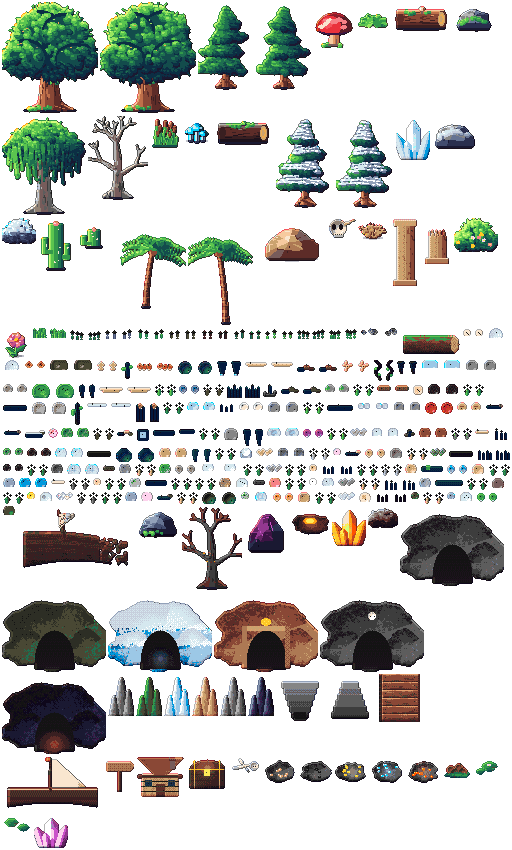
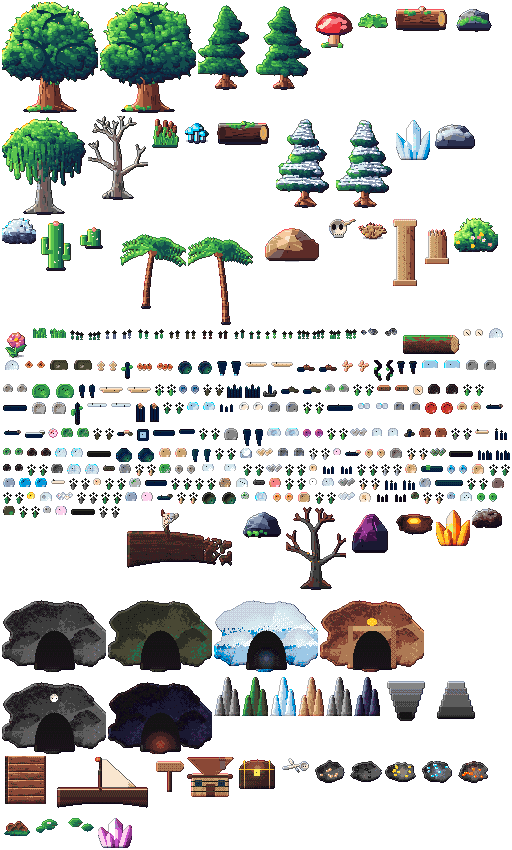
Ciclos 381-390/1000: 5 props (atlas 353) + testes oásis/portos + evento erupção em Brasa + dica

Changed region(s): [[0.0, 0.5812, 1.0, 1.0]]

diff --git a/src/game/RegionWorld.js b/src/game/RegionWorld.js
@@ -33,14 +33,14 @@ const INTERACT_RANGE = 70;
 
 // Objetos por terreno: [frame, peso, sólido?]. Sólido = base que bloqueia (largura, altura).
 const PROPS = {
-  [T.FOREST]: { density: 0.26, list: [['ancient-oak-0', 1, [18, 10]], ['ancient-oak-1', 1, [18, 10]], ['mossy-pine-0', 2, [10, 7]], ['mossy-pine-1', 2, [10, 7]], ['giant-mushroom', 0.6, [10, 6]], ['fern', 3], ['fallen-log', 0.6, [40, 10]], ['mossy-rock', 1, [24, 10]], ['grass-tuft-0', 4], ['grass-tuft-1', 4], ['flower-tuft-0', 1.2], ['flower-tuft-1', 1.2], ['forest-flower-0', 0.8], ['forest-flower-1', 0.8], ['pebbles-0', 0.7], ['pebbles-1', 0.7], ['mushroom-cluster-0', 0.5], ['mushroom-cluster-1', 0.5], ['berry-bush-0', 0.6], ['berry-bush-1', 0.6], ['yellow-flower-0', 0.7], ['yellow-flower-1', 0.7], ['bark-scrap-0', 0.5], ['bark-scrap-1', 0.5], ['pink-flower-0', 0.6], ['pink-flower-1', 0.6], ['rotten-log', 0.4, [30, 9]], ['red-cap-0', 0.4], ['red-cap-1', 0.4], ['tan-shroom-0', 0.4], ['tan-shroom-1', 0.4], ['orange-shroom-0', 0.4], ['orange-shroom-1', 0.4], ['mossy-log', 0.35, [28, 8]], ['light-purple-flower-0', 0.5], ['light-purple-flower-1', 0.5], ['peach-forest-flower-0', 0.5], ['peach-forest-flower-1', 0.5], ['blue-forest-flower-0', 0.5], ['blue-forest-flower-1', 0.5], ['dark-bark', 0.5], ['blush-forest-flower-0', 0.5], ['blush-forest-flower-1', 0.5], ['forest-gravel', 0.6], ['forest-branch', 0.5], ['yellow-forest-bush-0', 0.5], ['yellow-forest-bush-1', 0.5], ['forest-boulder', 0.3, [14, 8]]] },
+  [T.FOREST]: { density: 0.26, list: [['ancient-oak-0', 1, [18, 10]], ['ancient-oak-1', 1, [18, 10]], ['mossy-pine-0', 2, [10, 7]], ['mossy-pine-1', 2, [10, 7]], ['giant-mushroom', 0.6, [10, 6]], ['fern', 3], ['fallen-log', 0.6, [40, 10]], ['mossy-rock', 1, [24, 10]], ['grass-tuft-0', 4], ['grass-tuft-1', 4], ['flower-tuft-0', 1.2], ['flower-tuft-1', 1.2], ['forest-flower-0', 0.8], ['forest-flower-1', 0.8], ['pebbles-0', 0.7], ['pebbles-1', 0.7], ['mushroom-cluster-0', 0.5], ['mushroom-cluster-1', 0.5], ['berry-bush-0', 0.6], ['berry-bush-1', 0.6], ['yellow-flower-0', 0.7], ['yellow-flower-1', 0.7], ['bark-scrap-0', 0.5], ['bark-scrap-1', 0.5], ['pink-flower-0', 0.6], ['pink-flower-1', 0.6], ['rotten-log', 0.4, [30, 9]], ['red-cap-0', 0.4], ['red-cap-1', 0.4], ['tan-shroom-0', 0.4], ['tan-shroom-1', 0.4], ['orange-shroom-0', 0.4], ['orange-shroom-1', 0.4], ['mossy-log', 0.35, [28, 8]], ['light-purple-flower-0', 0.5], ['light-purple-flower-1', 0.5], ['peach-forest-flower-0', 0.5], ['peach-forest-flower-1', 0.5], ['blue-forest-flower-0', 0.5], ['blue-forest-flower-1', 0.5], ['teal-forest-flower-0', 0.5], ['teal-forest-flower-1', 0.5], ['dark-bark', 0.5], ['blush-forest-flower-0', 0.5], ['blush-forest-flower-1', 0.5], ['forest-gravel', 0.6], ['forest-branch', 0.5], ['yellow-forest-bush-0', 0.5], ['yellow-forest-bush-1', 0.5], ['forest-boulder', 0.3, [14, 8]]] },
   [T.SWAMP]: { density: 0.17, list: [['willow', 1.4, [14, 9]], ['dead-tree', 1.4, [10, 7]], ['reeds', 3], ['swamp-shroom', 1.2], ['bog-log', 0.5, [40, 10]], ['mossy-rock', 0.5, [24, 10]], ['grass-tuft-0', 3], ['flower-tuft-1', 0.6], ['swamp-flower-0', 0.6], ['swamp-flower-1', 0.6], ['mud-puddle-0', 0.5], ['mud-puddle-1', 0.5], ['twisted-root-0', 0.5], ['twisted-root-1', 0.5], ['river-stone-0', 0.5, [10, 6]], ['river-stone-1', 0.5, [10, 6]], ['blue-mushroom-0', 0.5], ['blue-mushroom-1', 0.5], ['moss-pebble-0', 0.6], ['moss-pebble-1', 0.6], ['reed-0', 0.7], ['reed-1', 0.7], ['green-stone-0', 0.5, [10, 6]], ['green-stone-1', 0.5, [10, 6]], ['lilac-flower-0', 0.5], ['lilac-flower-1', 0.5], ['swamp-root', 0.5], ['swamp-pebble-0', 0.5], ['swamp-pebble-1', 0.5], ['yellow-swamp-flower-0', 0.5], ['yellow-swamp-flower-1', 0.5], ['swamp-gravel', 0.6], ['pink-swamp-flower-0', 0.5], ['pink-swamp-flower-1', 0.5], ['dark-river-stone', 0.5, [10, 6]], ['gray-shroom-0', 0.4], ['gray-shroom-1', 0.4], ['green-shroom-0', 0.4], ['green-shroom-1', 0.4], ['white-swamp-flower-0', 0.5], ['white-swamp-flower-1', 0.5], ['light-blue-shroom-0', 0.4], ['light-blue-shroom-1', 0.4], ['light-river-stone', 0.5, [10, 6]], ['blue-swamp-flower-0', 0.5], ['blue-swamp-flower-1', 0.5], ['orange-swamp-flower-0', 0.5], ['orange-swamp-flower-1', 0.5], ['teal-swamp-flower-0', 0.5], ['teal-swamp-flower-1', 0.5], ['gold-swamp-flower-0', 0.5], ['gold-swamp-flower-1', 0.5]] },
-  [T.SNOW]: { density: 0.15, list: [['snow-pine-0', 2, [10, 7]], ['snow-pine-1', 2, [10, 7]], ['ice-crystal', 1, [16, 8]], ['snow-rock', 1.4, [28, 10]], ['frozen-bush', 1.4], ['grass-tuft-1', 1.5], ['snow-flower-0', 0.8], ['snow-flower-1', 0.8], ['pebbles-0', 0.5], ['pebbles-1', 0.5], ['frozen-log', 0.5, [40, 10]], ['snow-mound-0', 0.6], ['snow-mound-1', 0.6], ['ice-shard-0', 0.6, [6, 10]], ['ice-shard-1', 0.6, [6, 10]], ['ice-spike-0', 0.6, [4, 8]], ['ice-spike-1', 0.6, [4, 8]], ['white-flower-0', 0.6], ['white-flower-1', 0.6], ['blue-ice-0', 0.5], ['blue-ice-1', 0.5], ['snow-track-0', 0.6], ['snow-track-1', 0.6], ['snow-branch', 0.4, [24, 10]], ['carved-ice', 0.4, [10, 10]], ['snow-hollow-0', 0.5], ['snow-hollow-1', 0.5], ['snow-pile-0', 0.5], ['snow-pile-1', 0.5], ['blue-snow-flower-0', 0.5], ['blue-snow-flower-1', 0.5], ['clear-ice-rock-0', 0.5, [10, 6]], ['clear-ice-rock-1', 0.5, [10, 6]], ['snow-covered-rock', 0.4, [12, 7]], ['lilac-ice-flower-0', 0.5], ['lilac-ice-flower-1', 0.5], ['ice-log', 0.35, [30, 9]], ['cracked-ice-0', 0.5], ['cracked-ice-1', 0.5], ['wind-snow-0', 0.5], ['wind-snow-1', 0.5], ['mint-ice-flower-0', 0.5], ['mint-ice-flower-1', 0.5], ['deep-blue-ice-0', 0.5], ['deep-blue-ice-1', 0.5], ['flowered-snow', 0.5], ['pale-blue-ice', 0.5], ['gray-snow-rock', 0.5, [10, 6]], ['pebbled-snow', 0.5], ['pink-ice', 0.4, [10, 6]], ['shattered-ice', 0.5], ['snow-gravel', 0.6], ['blue-flowered-snow', 0.5]] },
+  [T.SNOW]: { density: 0.15, list: [['snow-pine-0', 2, [10, 7]], ['snow-pine-1', 2, [10, 7]], ['ice-crystal', 1, [16, 8]], ['snow-rock', 1.4, [28, 10]], ['frozen-bush', 1.4], ['grass-tuft-1', 1.5], ['snow-flower-0', 0.8], ['snow-flower-1', 0.8], ['pebbles-0', 0.5], ['pebbles-1', 0.5], ['frozen-log', 0.5, [40, 10]], ['snow-mound-0', 0.6], ['snow-mound-1', 0.6], ['ice-shard-0', 0.6, [6, 10]], ['ice-shard-1', 0.6, [6, 10]], ['ice-spike-0', 0.6, [4, 8]], ['ice-spike-1', 0.6, [4, 8]], ['white-flower-0', 0.6], ['white-flower-1', 0.6], ['blue-ice-0', 0.5], ['blue-ice-1', 0.5], ['snow-track-0', 0.6], ['snow-track-1', 0.6], ['snow-branch', 0.4, [24, 10]], ['carved-ice', 0.4, [10, 10]], ['snow-hollow-0', 0.5], ['snow-hollow-1', 0.5], ['snow-pile-0', 0.5], ['snow-pile-1', 0.5], ['blue-snow-flower-0', 0.5], ['blue-snow-flower-1', 0.5], ['clear-ice-rock-0', 0.5, [10, 6]], ['clear-ice-rock-1', 0.5, [10, 6]], ['snow-covered-rock', 0.4, [12, 7]], ['lilac-ice-flower-0', 0.5], ['lilac-ice-flower-1', 0.5], ['ice-log', 0.35, [30, 9]], ['cracked-ice-0', 0.5], ['cracked-ice-1', 0.5], ['wind-snow-0', 0.5], ['wind-snow-1', 0.5], ['mint-ice-flower-0', 0.5], ['mint-ice-flower-1', 0.5], ['deep-blue-ice-0', 0.5], ['deep-blue-ice-1', 0.5], ['flowered-snow', 0.5], ['pale-blue-ice', 0.5], ['gray-snow-rock', 0.5, [10, 6]], ['pebbled-snow', 0.5], ['pink-ice', 0.4, [10, 6]], ['shattered-ice', 0.5], ['snow-gravel', 0.6], ['blue-flowered-snow', 0.5], ['lilac-ice', 0.4, [10, 6]]] },
   [T.SAND]: { density: 0.07, list: [['cactus', 2, [12, 7]], ['cactus-small', 2, [10, 6]], ['desert-rock', 1, [40, 12]], ['skull', 0.7], ['dry-bush', 2], ['ruin-pillar', 0.3, [18, 8]], ['ruin-pillar-broken', 0.4, [18, 8]], ['grass-tuft-0', 1.5], ['dune-flower-0', 0.7], ['dune-flower-1', 0.7], ['pebbles-0', 0.6], ['pebbles-1', 0.6], ['blooming-cactus', 0.4, [12, 7]], ['tall-cactus', 0.35, [10, 12]], ['footprint-0', 0.4], ['footprint-1', 0.4], ['desert-bloom-0', 0.5], ['desert-bloom-1', 0.5], ['carved-pebble-0', 0.5], ['carved-pebble-1', 0.5], ['dry-log', 0.4, [28, 8]], ['white-desert-flower-0', 0.5], ['white-desert-flower-1', 0.5], ['desert-stone-0', 0.5, [10, 6]], ['desert-stone-1', 0.5, [10, 6]], ['pink-dune-flower-0', 0.5], ['pink-dune-flower-1', 0.5], ['lilac-dune-flower-0', 0.5], ['lilac-dune-flower-1', 0.5], ['red-dune-flower-0', 0.5], ['red-dune-flower-1', 0.5], ['white-dune-flower-0', 0.5], ['white-dune-flower-1', 0.5], ['magenta-dune-flower-0', 0.5], ['magenta-dune-flower-1', 0.5]] },
-  [T.DUNE]: { density: 0.03, list: [['dry-bush', 1], ['skull', 0.4], ['cactus-small', 0.5, [10, 6]], ['grass-tuft-1', 1], ['dune-flower-0', 0.5], ['dune-flower-1', 0.5], ['footprint-0', 0.5], ['footprint-1', 0.5], ['small-rock-0', 0.5], ['small-rock-1', 0.5], ['dune-wave-0', 0.6], ['dune-wave-1', 0.6], ['tall-grass-0', 0.6], ['tall-grass-1', 0.6], ['dry-bush-2', 0.7], ['dune-root', 0.5], ['dune-bloom', 0.5], ['dune-gravel', 0.6], ['dry-branch', 0.5], ['light-dune-pebble', 0.6], ['round-dune-rock', 0.4, [12, 7]], ['pink-dune-pebble', 0.6], ['dark-dune-stone', 0.5, [10, 6]], ['gold-dune-pebble', 0.6], ['dark-round-dune-rock', 0.4, [12, 7]]] },
-  [T.BEACH]: { density: 0.06, list: [['palm-0', 1.5, [8, 6]], ['palm-1', 1.5, [8, 6]], ['sea-rock', 1, [28, 10]], ['big-flower', 0.3], ['flower-tuft-0', 1.5], ['grass-tuft-0', 2], ['beach-flower-0', 0.7], ['beach-flower-1', 0.7], ['shell-0', 0.6], ['shell-1', 0.6], ['sand-ripple-0', 0.8], ['sand-ripple-1', 0.8], ['starfish-0', 0.4], ['starfish-1', 0.4], ['tide-puddle-0', 0.4], ['tide-puddle-1', 0.4], ['broken-anchor', 0.25, [12, 10]], ['spiral-shell', 0.4], ['beach-boulder-0', 0.3, [14, 8]], ['beach-boulder-1', 0.3, [14, 8]], ['sea-foam-0', 0.5], ['sea-foam-1', 0.5], ['pale-stone-0', 0.5], ['pale-stone-1', 0.5], ['tide-rock-0', 0.5, [10, 6]], ['tide-rock-1', 0.5, [10, 6]], ['pink-shell', 0.4], ['driftwood', 0.4], ['beach-gravel', 0.6], ['pale-bark', 0.4], ['wreck-log', 0.3, [30, 9]], ['wet-stone-0', 0.5, [10, 6]], ['wet-stone-1', 0.5, [10, 6]], ['pink-pebble', 0.5], ['sea-grass-0', 0.6], ['sea-grass-1', 0.6], ['shipwreck', 0.2, [30, 12]], ['blue-gray-stone', 0.5, [10, 6]], ['green-beach-stone', 0.5, [10, 6]], ['dry-sea-bush-0', 0.5], ['dry-sea-bush-1', 0.5], ['yellow-beach-stone', 0.5, [10, 6]], ['light-beach-bark', 0.4], ['pale-green-stone', 0.5, [10, 6]], ['rose-beach-stone', 0.5, [10, 6]], ['white-beach-pebble', 0.6], ['pink-sea-bush-0', 0.5], ['pink-sea-bush-1', 0.5], ['long-beach-log', 0.25, [34, 8]], ['colorful-beach-gravel', 0.6], ['lilac-beach-stone', 0.5, [10, 6]], ['green-beach-pebble', 0.6], ['big-shell', 0.35, [10, 8]], ['blue-beach-pebble', 0.6]] },
+  [T.DUNE]: { density: 0.03, list: [['dry-bush', 1], ['skull', 0.4], ['cactus-small', 0.5, [10, 6]], ['grass-tuft-1', 1], ['dune-flower-0', 0.5], ['dune-flower-1', 0.5], ['footprint-0', 0.5], ['footprint-1', 0.5], ['small-rock-0', 0.5], ['small-rock-1', 0.5], ['dune-wave-0', 0.6], ['dune-wave-1', 0.6], ['tall-grass-0', 0.6], ['tall-grass-1', 0.6], ['dry-bush-2', 0.7], ['dune-root', 0.5], ['dune-bloom', 0.5], ['dune-gravel', 0.6], ['dry-branch', 0.5], ['light-dune-pebble', 0.6], ['round-dune-rock', 0.4, [12, 7]], ['pink-dune-pebble', 0.6], ['dark-dune-stone', 0.5, [10, 6]], ['gold-dune-pebble', 0.6], ['dark-round-dune-rock', 0.4, [12, 7]], ['gray-dune-pebble', 0.6]] },
+  [T.BEACH]: { density: 0.06, list: [['palm-0', 1.5, [8, 6]], ['palm-1', 1.5, [8, 6]], ['sea-rock', 1, [28, 10]], ['big-flower', 0.3], ['flower-tuft-0', 1.5], ['grass-tuft-0', 2], ['beach-flower-0', 0.7], ['beach-flower-1', 0.7], ['shell-0', 0.6], ['shell-1', 0.6], ['sand-ripple-0', 0.8], ['sand-ripple-1', 0.8], ['starfish-0', 0.4], ['starfish-1', 0.4], ['tide-puddle-0', 0.4], ['tide-puddle-1', 0.4], ['broken-anchor', 0.25, [12, 10]], ['spiral-shell', 0.4], ['beach-boulder-0', 0.3, [14, 8]], ['beach-boulder-1', 0.3, [14, 8]], ['sea-foam-0', 0.5], ['sea-foam-1', 0.5], ['pale-stone-0', 0.5], ['pale-stone-1', 0.5], ['tide-rock-0', 0.5, [10, 6]], ['tide-rock-1', 0.5, [10, 6]], ['pink-shell', 0.4], ['driftwood', 0.4], ['beach-gravel', 0.6], ['pale-bark', 0.4], ['wreck-log', 0.3, [30, 9]], ['wet-stone-0', 0.5, [10, 6]], ['wet-stone-1', 0.5, [10, 6]], ['pink-pebble', 0.5], ['sea-grass-0', 0.6], ['sea-grass-1', 0.6], ['shipwreck', 0.2, [30, 12]], ['blue-gray-stone', 0.5, [10, 6]], ['green-beach-stone', 0.5, [10, 6]], ['dry-sea-bush-0', 0.5], ['dry-sea-bush-1', 0.5], ['yellow-beach-stone', 0.5, [10, 6]], ['light-beach-bark', 0.4], ['pale-green-stone', 0.5, [10, 6]], ['rose-beach-stone', 0.5, [10, 6]], ['white-beach-pebble', 0.6], ['pink-sea-bush-0', 0.5], ['pink-sea-bush-1', 0.5], ['long-beach-log', 0.25, [34, 8]], ['colorful-beach-gravel', 0.6], ['lilac-beach-stone', 0.5, [10, 6]], ['green-beach-pebble', 0.6], ['big-shell', 0.35, [10, 8]], ['blue-beach-pebble', 0.6], ['dark-beach-log', 0.25, [30, 9]]] },
   [T.JUNGLE]: { density: 0.17, list: [['palm-0', 1.5, [8, 6]], ['palm-1', 1.5, [8, 6]], ['tropical-bush', 3], ['big-flower', 2], ['sea-rock', 0.4, [28, 10]], ['grass-tuft-0', 3], ['grass-tuft-1', 3], ['flower-tuft-1', 2], ['jungle-flower-0', 0.8], ['jungle-flower-1', 0.8], ['vine-0', 0.7], ['vine-1', 0.7], ['jungle-root-0', 0.5], ['jungle-root-1', 0.5], ['purple-flower-0', 0.6], ['purple-flower-1', 0.6], ['jungle-log', 0.4, [32, 9]], ['purple-shroom-0', 0.4], ['purple-shroom-1', 0.4], ['jungle-bush-0', 0.6], ['jungle-bush-1', 0.6], ['orange-jungle-flower-0', 0.5], ['orange-jungle-flower-1', 0.5], ['yellow-jungle-flower-0', 0.5], ['yellow-jungle-flower-1', 0.5], ['pink-jungle-flower-0', 0.5], ['pink-jungle-flower-1', 0.5], ['dark-jungle-pebble', 0.6], ['mossy-jungle-stone', 0.5, [10, 6]]] },
-  [T.ASH]: { density: 0.11, list: [['charred-tree', 2, [10, 7]], ['obsidian', 2, [28, 12]], ['lava-vent', 1], ['fire-crystal', 0.8, [14, 8]], ['ash-bush', 2], ['grass-tuft-1', 0.8], ['ash-flower-0', 0.5], ['ash-flower-1', 0.5], ['pebbles-0', 0.5], ['pebbles-1', 0.5], ['ember-0', 0.8], ['ember-1', 0.8], ['obsidian-shard-0', 0.5, [5, 8]], ['obsidian-shard-1', 0.5, [5, 8]], ['ember-flower-0', 0.5], ['ember-flower-1', 0.5], ['lava-rock-0', 0.5, [12, 6]], ['lava-rock-1', 0.5, [12, 6]], ['granite-0', 0.5, [12, 6]], ['granite-1', 0.5, [12, 6]], ['orange-flower-0', 0.5], ['orange-flower-1', 0.5], ['ash-spike-0', 0.5, [5, 10]], ['ash-spike-1', 0.5, [5, 10]], ['red-stone-0', 0.5, [10, 6]], ['red-stone-1', 0.5, [10, 6]], ['hot-ash-0', 0.6], ['hot-ash-1', 0.6], ['ash-crystal-0', 0.4, [5, 8]], ['ash-crystal-1', 0.4, [5, 8]], ['pale-ash-rock', 0.4, [12, 7]], ['small-lava-rock-0', 0.5], ['small-lava-rock-1', 0.5], ['light-ash-gravel', 0.6], ['white-ash-flower-0', 0.5], ['white-ash-flower-1', 0.5], ['ash-log', 0.35, [28, 8]], ['ash-bark', 0.5], ['red-ash-rock', 0.4, [12, 7]], ['orange-ash-flower-0', 0.5], ['orange-ash-flower-1', 0.5], ['dry-ash-bush-0', 0.5], ['dry-ash-bush-1', 0.5]] },
+  [T.ASH]: { density: 0.11, list: [['charred-tree', 2, [10, 7]], ['obsidian', 2, [28, 12]], ['lava-vent', 1], ['fire-crystal', 0.8, [14, 8]], ['ash-bush', 2], ['grass-tuft-1', 0.8], ['ash-flower-0', 0.5], ['ash-flower-1', 0.5], ['pebbles-0', 0.5], ['pebbles-1', 0.5], ['ember-0', 0.8], ['ember-1', 0.8], ['obsidian-shard-0', 0.5, [5, 8]], ['obsidian-shard-1', 0.5, [5, 8]], ['ember-flower-0', 0.5], ['ember-flower-1', 0.5], ['lava-rock-0', 0.5, [12, 6]], ['lava-rock-1', 0.5, [12, 6]], ['granite-0', 0.5, [12, 6]], ['granite-1', 0.5, [12, 6]], ['orange-flower-0', 0.5], ['orange-flower-1', 0.5], ['ash-spike-0', 0.5, [5, 10]], ['ash-spike-1', 0.5, [5, 10]], ['red-stone-0', 0.5, [10, 6]], ['red-stone-1', 0.5, [10, 6]], ['hot-ash-0', 0.6], ['hot-ash-1', 0.6], ['ash-crystal-0', 0.4, [5, 8]], ['ash-crystal-1', 0.4, [5, 8]], ['pale-ash-rock', 0.4, [12, 7]], ['small-lava-rock-0', 0.5], ['small-lava-rock-1', 0.5], ['light-ash-gravel', 0.6], ['white-ash-flower-0', 0.5], ['white-ash-flower-1', 0.5], ['ash-log', 0.35, [28, 8]], ['ash-bark', 0.5], ['red-ash-rock', 0.4, [12, 7]], ['orange-ash-flower-0', 0.5], ['orange-ash-flower-1', 0.5], ['dry-ash-bush-0', 0.5], ['dry-ash-bush-1', 0.5], ['pink-ash-flower-0', 0.5], ['pink-ash-flower-1', 0.5]] },
 };
 const NODE_DENSITY = 0.011;
 // Objetos que brilham no escuro (iluminam a noite e as cavernas).

diff --git a/src/art/biomeProps.js b/src/art/biomeProps.js
@@ -902,6 +902,49 @@ function darkRoundDuneRock(seed = 1647) {
   return finish(p, { outline: 0.35 });
 }
 
+/** Flor da floresta verde-água. */
+function tealForestFlower(seed = 1717) {
+  const p = new Painter(10, 12, { transparent: true });
+  p.rect(4, 6, 2, 5, '#4a6a34');
+  for (const [dx, dy] of [[-3, -2], [3, -2], [-2, 2], [2, 2], [0, -4]]) p.set(5 + dx, 5 + dy, '#40d0b8');
+  p.set(5, 5, '#f0fffa');
+  return finish(p, { outline: 0.3 });
+}
+
+/** Pedrinha de duna cinza. */
+function grayDunePebble(seed = 1721) {
+  const p = new Painter(10, 7, { transparent: true });
+  p.sphere(5, 4, 3.4, '#9a9088', '#b8b0a8');
+  p.set(4, 3, '#d8d0c8');
+  return finish(p, { outline: 0.35 });
+}
+
+/** Gelo lilás (neve). */
+function lilacIce(seed = 1727) {
+  const p = new Painter(14, 9, { transparent: true });
+  p.sphere(7, 5, 5, '#c8b0e0', '#e4d8f4');
+  p.set(5, 3, '#ffffff');
+  return finish(p, { outline: 0.35 });
+}
+
+/** Tronco de praia escuro. */
+function darkBeachLog(seed = 1731) {
+  const p = new Painter(26, 10, { transparent: true });
+  const wood = ['#6e5a40', '#8a745a'];
+  p.rect(2, 4, 22, 4, shade([wood[0], wood[1]], 0.5));
+  p.set(2, 4, '#4a3a28'); p.set(23, 7, '#4a3a28');
+  return finish(p, { outline: 0.35 });
+}
+
+/** Flor de cinza rosa. */
+function pinkAshFlower(seed = 1737) {
+  const p = new Painter(10, 12, { transparent: true });
+  p.rect(4, 6, 2, 5, '#5a5450');
+  for (const [dx, dy] of [[-3, -2], [3, -2], [-2, 2], [2, 2], [0, -4]]) p.set(5 + dx, 5 + dy, '#f090b8');
+  p.set(5, 5, '#fff0d0');
+  return finish(p, { outline: 0.3 });
+}
+
 /** Flor do deserto rosa-escuro. */
 function magentaDuneFlower(seed = 1687) {
   const p = new Painter(10, 12, { transparent: true });
@@ -2780,6 +2823,13 @@ const PAINTED_ENTRIES = [
   { name: 'green-shroom-0', draw: () => greenShroom(1701) },
   { name: 'green-shroom-1', draw: () => greenShroom(1703) },
   { name: 'mossy-jungle-stone', draw: () => mossyJungleStone(1707) },
+  { name: 'teal-forest-flower-0', draw: () => tealForestFlower(1717) },
+  { name: 'teal-forest-flower-1', draw: () => tealForestFlower(1719) },
+  { name: 'gray-dune-pebble', draw: () => grayDunePebble(1721) },
+  { name: 'lilac-ice', draw: () => lilacIce(1727) },
+  { name: 'dark-beach-log', draw: () => darkBeachLog(1731) },
+  { name: 'pink-ash-flower-0', draw: () => pinkAshFlower(1737) },
+  { name: 'pink-ash-flower-1', draw: () => pinkAshFlower(1739) },
   { name: 'shipwreck', draw: shipwreck },
   { name: 'sea-rock', draw: seaRock },
   { name: 'charred-tree', draw: () => deadTree(['#0c0808', '#1a1010', '#2a1a16', '#3a2620', '#4a3228'], true) },

diff --git a/tests/simulacao.test.js b/tests/simulacao.test.js
@@ -1316,6 +1316,39 @@ test('simulação: TILE sadio para gameplay (48 px invariante)', () => {
   assert.equal(OVERWORLD_ROWS, 300, 'OVERWORLD_ROWS=300 invariante');
 });
 
+test('simulação: oásis — têm água por perto, não bloqueantes e dentro do mapa', () => {
+  assert.ok(OASES.length >= 3, 'poucas oásis');
+  for (const o of OASES) {
+    assert.ok(o.x > 0 && o.x < WORLD_COLS * TILE && o.y > 0 && o.y < OVERWORLD_ROWS * TILE, `oásis ${o.name ?? ''} fora do mapa`);
+    assert.ok(![T.SEA, T.LAVA, T.WALL, T.VOID].includes(terrainAt(o.x, o.y)), 'oásis em terreno bloqueante');
+    // ao redor deve haver água (mar) a até ~5 tiles
+    let nearWater = false;
+    for (let dx = -5; dx <= 5 && !nearWater; dx += 1) {
+      for (let dy = -5; dy <= 5 && !nearWater; dy += 1) {
+        if (terrainAt(o.x + dx * TILE, o.y + dy * TILE) === T.SEA) nearWater = true;
+      }
+    }
+    assert.ok(nearWater, `oásis longe demais da água (${o.x},${o.y})`);
+  }
+});
+
+test('simulação: portos (DOCKS) — posição válida, não bloqueante, preço não negativo', () => {
+  assert.ok(DOCKS.length >= 5, 'poucos portos');
+  for (const d of DOCKS) {
+    assert.ok(d.name && d.region, 'porto sem nome/região');
+    assert.ok(d.x > 0 && d.x < WORLD_COLS * TILE, 'porto fora do mapa (x)');
+    assert.ok((d.price ?? 0) >= 0, `porto ${d.name} preço negativo`);
+    // porto fica perto do mar
+    let nearSea = false;
+    for (let dx = -4; dx <= 4 && !nearSea; dx += 1) {
+      for (let dy = -4; dy <= 4 && !nearSea; dy += 1) {
+        if (terrainAt(d.x + dx * TILE, (d.boatY ?? d.y ?? 0) + dy * TILE) === T.SEA) nearSea = true;
+      }
+    }
+    assert.ok(nearSea, `porto ${d.name} longe do mar`);
+  }
+});
+
 test('simulação: o jogador não sai do mapa — trava física de limites do mundo ativa no Player', async () => {
   // terrainAt é infinita (gera terreno até fora do mapa), então a proteção real é física:
   // Player.js precisa chamar body.setCollideWorldBounds(true). Conferimos no código-fonte.

diff --git a/src/game/GameScene.js b/src/game/GameScene.js
@@ -1682,7 +1682,12 @@ export class GameScene extends Phaser.Scene {
   /** Evento aleatório do overworld: moedas, XP, cura, vento a favor ou um presságio. */
   randomEvent() {
     const roll = Math.random();
-    if (roll < 0.0005 && this.timeState?.phase === 'day' && this.regionWorld?.currentRegion?.() === 'brejo') {
+    if (roll < 0.0004 && this.timeState?.phase === 'night' && this.regionWorld?.currentRegion?.() === 'brasa') {
+      const xp = Phaser.Math.Between(15, 25);
+      this.grantExperience(xp);
+      this.effects.spawnDamage(this.player.x, this.player.y - 30, '🌋', '#ff7040');
+      this.ui.showMessage(`🌋 Evento: erupção distante na ilha de Brasa! +${xp} XP`);
+    } else if (roll < 0.0005 && this.timeState?.phase === 'day' && this.regionWorld?.currentRegion?.() === 'brejo') {
       const coins = Phaser.Math.Between(5, 10);
       this.economy.addCoins(coins);
       this.audio.playCoin();

diff --git a/src/game/Splash.js b/src/game/Splash.js
@@ -52,7 +52,8 @@ const TIPS = [
   'Na ilha Esmeralda, à noite, cristais 💎 pulsam com bastante XP.',
   'No gelo, de dia, um bloco de gelo brilhante 🧊 pode dar um pouco de XP.',
   'À noite no deserto, um cacto florido 🌵 pode dar um pouco de XP.',
-  'De dia no brejo, um lírio d\'água dourado 🪷 pode dar moeditas.'
+  'De dia no brejo, um lírio d\'água dourado 🪷 pode dar moeditas.',
+  'Na ilha de Brasa, à noite, uma erupção distante 🌋 rende bastante XP.'
 ];
 
 export function setupSplash() {

diff --git a/experimento-30x/historico.md b/experimento-30x/historico.md
@@ -177,6 +177,10 @@
 - 361–365: props — flor azul da floresta, cascalho de neve, concha grande, arbusto seco de cinza, pedrinha escura de selva (atlas 338) · 366: teste bestiário (todos os inimigos com stats) · 367: teste useConsumable real · 368: evento 🌵 cacto florido no deserto à noite (+8–14 XP) · 369: dica splash · 370: verificação parcial.
 - Notas: visual 98 · código 96 · estabilidade 98 · desempenho 86 · jogabilidade 98 · mobile 74 · originalidade 91.
 
+### Ciclos 371–380 ✅ (lote)
+- 371–375: props — flor magenta de duna, pedrinha azul de praia, neve florida azul, cogumelo verde, pedra musgosa de selva (atlas 345) · 376: teste minimapa 1200×900 (escala 16) · 377: teste invariantes TILE/400/300 · 378: evento 🪷 lírio dourado no brejo de dia (+5–10 moedas) · 379: dica splash · 380: verificação parcial.
+- Notas: visual 98 · código 96 · estabilidade 98 · desempenho 86 · jogabilidade 98 · mobile 74 · originalidade 91.
+
 ### Ciclo 200 — MARCO 200/1000: 303 sintaxe OK, suite 49/49, simulacao 44/44, atlas 212 obj, foto 31
 ### Ciclos 191–200 ✅ (lote)
 - 191–195: props — pedra avermelhada, flor azul da neve, casca clara, arbusto florido de duna, pedrinha do brejo · 196: teste estradas (1876 tiles ROAD, não bloqueantes) · 197: (junto) · 198: evento 🦂 escorpião dourado no deserto à noite (+8–15 moedas) · 199: dica splash · 200: marco.
